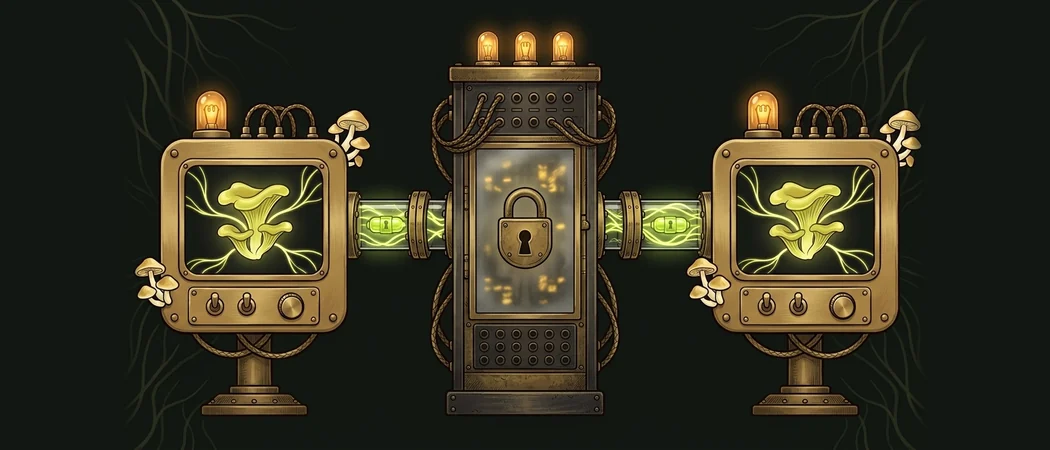
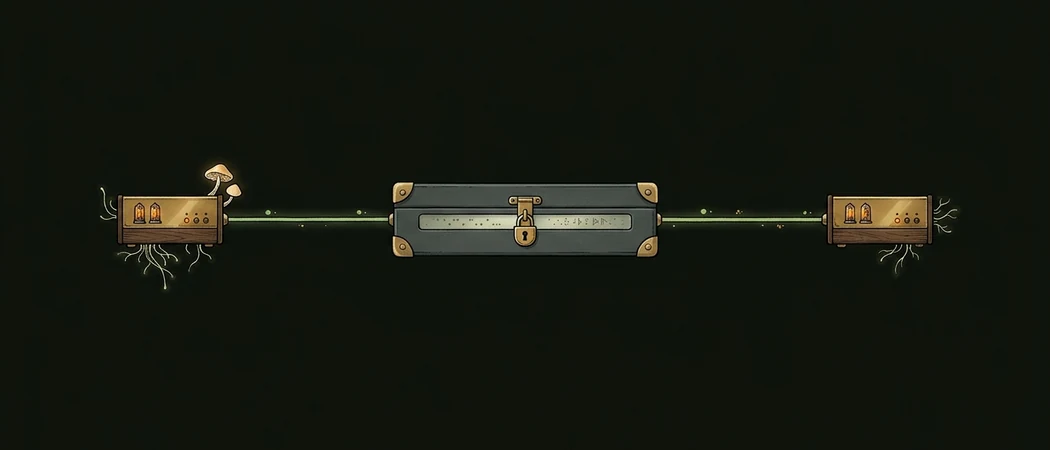
docs(site): replace security illustrations with redesigned horizontal dark 21:9 set

diff --git a/site/index.html b/site/index.html
@@ -1054,13 +1054,13 @@ hyp deploy init tailscale</pre>
           <!-- 1. End-to-End Encrypted Between Nodes -->
           <article class="sec-card tone-olive">
             <div class="sec-card-media">
-              <img src="./assets/sec-e2ee.webp?v=2" alt="Two brass Hyphae nodes connected by a glowing sealed conduit passing straight through a locked blind relay chamber" decoding="async" />
+              <img src="./assets/sec-e2ee.webp?v=3" alt="Two compact brass Hyphae nodes connected by a glowing sealed conduit passing through a low locked blind relay box" decoding="async" />
               <svg class="sec-anim-overlay" viewBox="0 0 350 150" fill="none" aria-hidden="true">
-                <circle class="sec-orb olive" cx="0" cy="0" r="3.2">
-                  <animateMotion dur="2.8s" repeatCount="indefinite" path="M 102 75 L 142 75" />
+                <circle class="sec-orb olive" cx="0" cy="0" r="3">
+                  <animateMotion dur="2.8s" repeatCount="indefinite" path="M 76 73 L 128 73" />
                 </circle>
-                <circle class="sec-orb olive" cx="0" cy="0" r="3.2">
-                  <animateMotion dur="2.8s" begin="1.35s" repeatCount="indefinite" path="M 208 75 L 248 75" />
+                <circle class="sec-orb olive" cx="0" cy="0" r="3">
+                  <animateMotion dur="2.8s" begin="1.35s" repeatCount="indefinite" path="M 222 73 L 274 73" />
                 </circle>
               </svg>
             </div>
@@ -1090,13 +1090,13 @@ hyp deploy init tailscale</pre>
           <!-- 2. Zero-Context Secrets -->
           <article class="sec-card tone-moss">
             <div class="sec-card-media">
-              <img src="./assets/sec-passkey.webp?v=2" alt="Smartphone Face ID key beam going straight into a brass Keychain vault and command runner while the mushroom coding agent works separately behind glass" decoding="async" />
+              <img src="./assets/sec-passkey.webp?v=3" alt="Smartphone sending a glowing key straight into a low brass OS Keychain lockbox separated by a frosted glass divider from a mushroom coding agent" decoding="async" />
               <svg class="sec-anim-overlay" viewBox="0 0 350 150" fill="none" aria-hidden="true">
-                <circle class="sec-orb moss" cx="0" cy="0" r="3">
-                  <animateMotion dur="2.5s" repeatCount="indefinite" path="M 74 75 L 146 75" />
-                </circle>
                 <circle class="sec-orb moss" cx="0" cy="0" r="2.8">
-                  <animateMotion dur="2.5s" begin="1.15s" repeatCount="indefinite" path="M 176 75 L 236 75" />
+                  <animateMotion dur="2.5s" repeatCount="indefinite" path="M 90 80 L 156 80" />
+                </circle>
+                <circle class="sec-orb moss" cx="0" cy="0" r="2.4">
+                  <animateMotion dur="2.5s" begin="1.15s" repeatCount="indefinite" path="M 234 80 L 250 80 Q 258 84 268 87" />
                 </circle>
               </svg>
             </div>
@@ -1126,12 +1126,15 @@ hyp deploy init tailscale</pre>
           <!-- 3. Passkey-Signed Messages -->
           <article class="sec-card tone-amber">
             <div class="sec-card-media">
-              <img src="./assets/sec-sign.webp?v=2" alt="Smartphone stamping a glowing golden cryptographic seal onto a message traveling safely across an untrusted channel to two verifying mushroom agents" decoding="async" />
+              <img src="./assets/sec-sign.webp?v=3" alt="Smartphone with glowing fingerprint sending a brass wax-sealed envelope along a thin mycelium wire to a verifying mushroom agent with a magnifying loupe" decoding="async" />
               <svg class="sec-anim-overlay" viewBox="0 0 350 150" fill="none" aria-hidden="true">
-                <circle class="sec-orb amber" cx="0" cy="0" r="3.1">
-                  <animateMotion dur="3.1s" repeatCount="indefinite" path="M 80 75 L 175 75 L 238 75" />
+                <circle class="sec-orb amber" cx="0" cy="0" r="2.8">
+                  <animateMotion dur="3.1s" repeatCount="indefinite" path="M 84 78.5 L 158 78.5" />
                 </circle>
-                <circle class="sec-seal-pulse" cx="175" cy="75" r="9" />
+                <circle class="sec-orb amber" cx="0" cy="0" r="2.8">
+                  <animateMotion dur="3.1s" begin="1.5s" repeatCount="indefinite" path="M 192 78.3 L 272 78.3" />
+                </circle>
+                <circle class="sec-seal-pulse" cx="175" cy="78" r="8" />
               </svg>
             </div>
 
